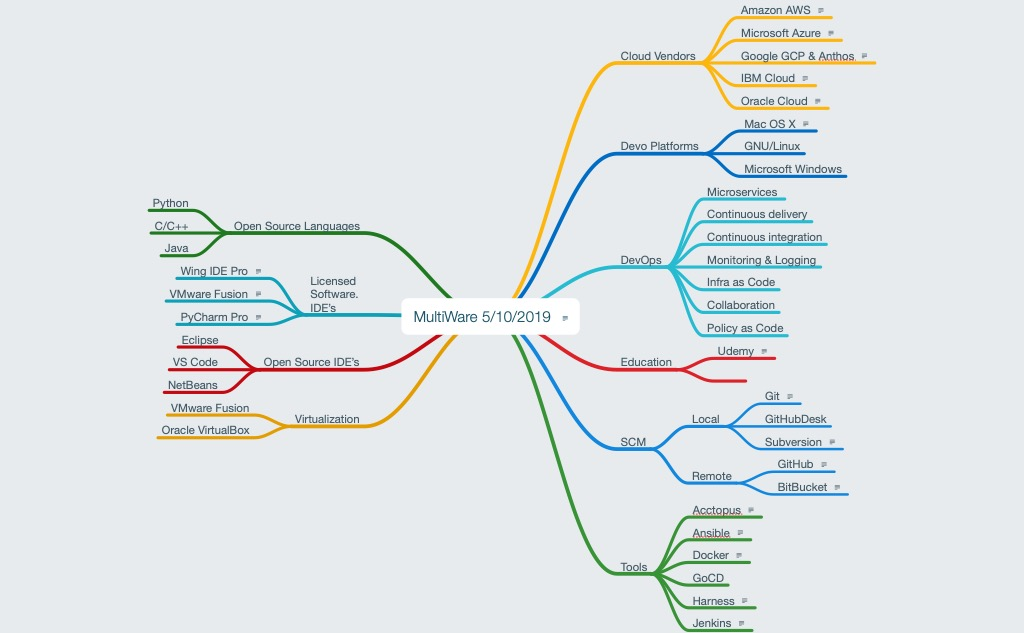
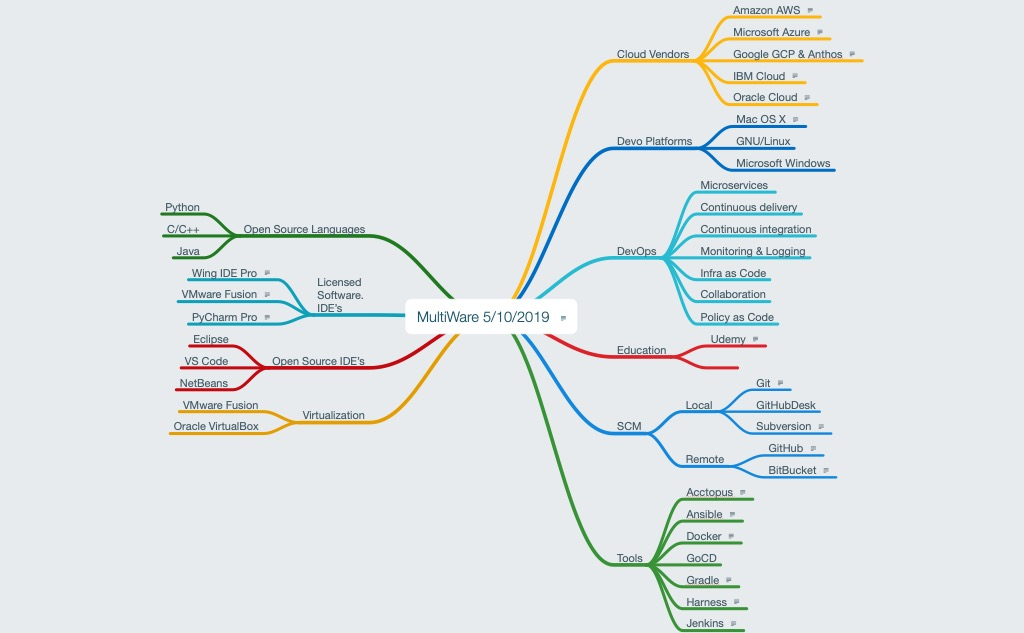
added gradle & new exports

diff --git a/MultiWareEngineering-overview/MultiWare-overview.md b/MultiWareEngineering-overview/MultiWare-overview.md
@@ -1,7 +1,65 @@
-# MultiWare 5/9/2019
+# MultiWare 5/10/2019
 
 Copyright © 2019 Douglas Wade Goodall. All Rights Reserved.
 
+
+## Cloud Vendors
+
+### Amazon AWS
+
+Https://aws.amazon.com  
+
+Amazon provides a free tier account for a period of one year to evaluation users.
+
+### Microsoft Azure
+
+[Https://microsoft.com](Https://microsoft.com)
+
+### Google GCP & Anthos
+
+[Https://google.com](Https://google.com)
+
+### IBM Cloud
+
+[Https://ibm.com](Https://ibm.com)
+
+### Oracle Cloud
+
+Oracle offers a 30-day free account w/$300 credit to use for evaluation. After 30-days you must convert to paid as you go account.
+
+## Devo Platforms
+
+### Mac OS X
+
+[Https://apple.com](Https://apple.com)
+
+### GNU/Linux
+
+### Microsoft Windows
+
+## DevOps
+
+### Microservices 
+
+### Continuous delivery
+
+### Continuous integration
+
+### Monitoring & Logging
+
+### Infra as Code
+
+### Collaboration
+
+### Policy as Code
+
+## Education
+
+### Udemy
+
+[Https://udemy.com](Https://udemy.com)
+
+### 
 
 ## SCM
 
@@ -27,67 +85,40 @@ Copyright © 2019 Douglas Wade Goodall. All Rights Reserved.
 
 	[Https://bitbucket.com](Https://bitbucket.com)
 
-## Education
-
-### Udemy
-
-[Https://udemy.com](Https://udemy.com)
-
-### 
-
-## DevOps
-
-### Microservices 
-
-### Continuous delivery
-
-### Continuous integration
-
-### Monitoring & Logging
-
-### Infra as Code
-
-### Collaboration
-
-### Policy as Code
-
 ## Tools
 
-### Jenkins
+### Acctopus
 
-Https://jenkins.io
+https://lnkd.in/dz_SJNZ
 
-### Harness
+### Ansible
 
-[Https://harness.io](Https://harness.io)
-
-### GoCD
-
-[Https://gocd.org](Https://gocd.org)
+[Https://ansible.com](Https://ansible.com)
 
 ### Docker
 
 [Https://docker.com](Https://docker.com)
 
-### Ansible
+### GoCD
 
-[Https://ansible.com](Https://ansible.com)
+### Gradle
+
+[Https://gradle.org](Https://gradle.org)
+
+
+### Harness
+
+[Https://harness.io](Https://harness.io)
+
+### Jenkins
+
+Https://jenkins.io
 
 ## Virtualization
 
 ### VMware Fusion
 
 ### Oracle VirtualBox
-
-## Devo Platforms
-
-### Mac OS X
-
-[Https://apple.com](Https://apple.com)
-
-### GNU/Linux
-
-### Microsoft Windows
 
 ## Open Source IDE’s
 
@@ -110,30 +141,6 @@ Https://jenkins.io
 ### PyCharm Pro
 
 [https://www.jetbrains.com/pycharm/](https://www.jetbrains.com/pycharm/)
-
-## Cloud Vendors
-
-### Amazon AWS
-
-Https://aws.amazon.com  
-
-Amazon provides a free tier account for a period of one year to evaluation users.
-
-### Microsoft Azure
-
-[Https://microsoft.com](Https://microsoft.com)
-
-### Google GCP & Anthos
-
-[Https://google.com](Https://google.com)
-
-### IBM Cloud
-
-[Https://ibm.com](Https://ibm.com)
-
-### Oracle Cloud
-
-Oracle offers a 30-day free account w/$300 credit to use for evaluation. After 30-days you must convert to paid as you go account.
 
 ## Open Source Languages
 
